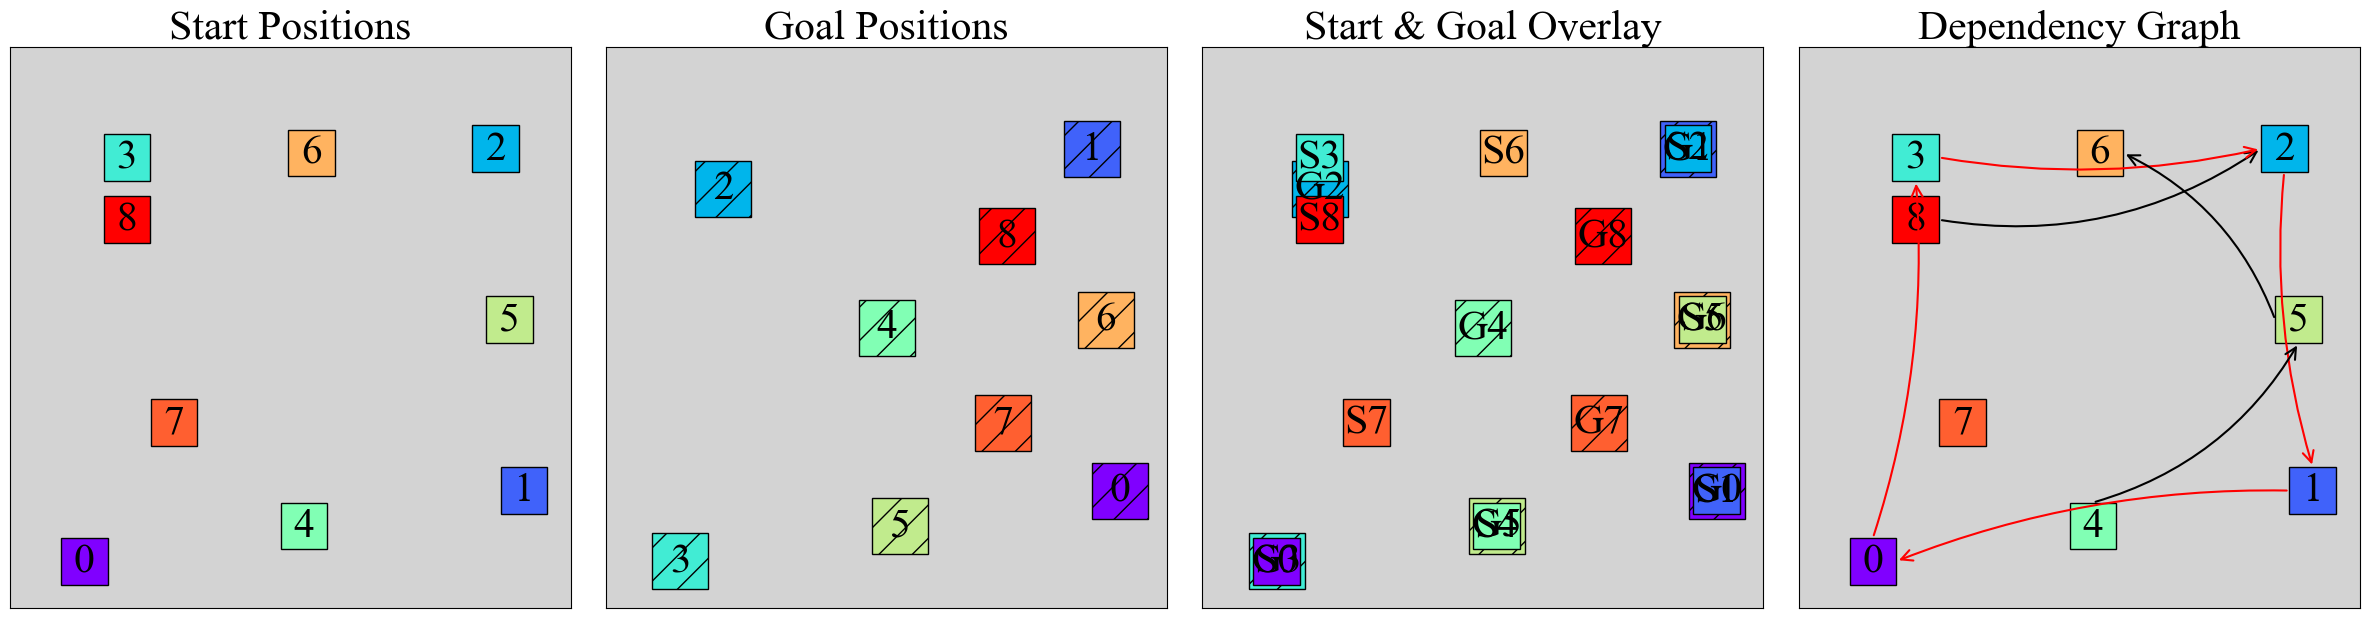
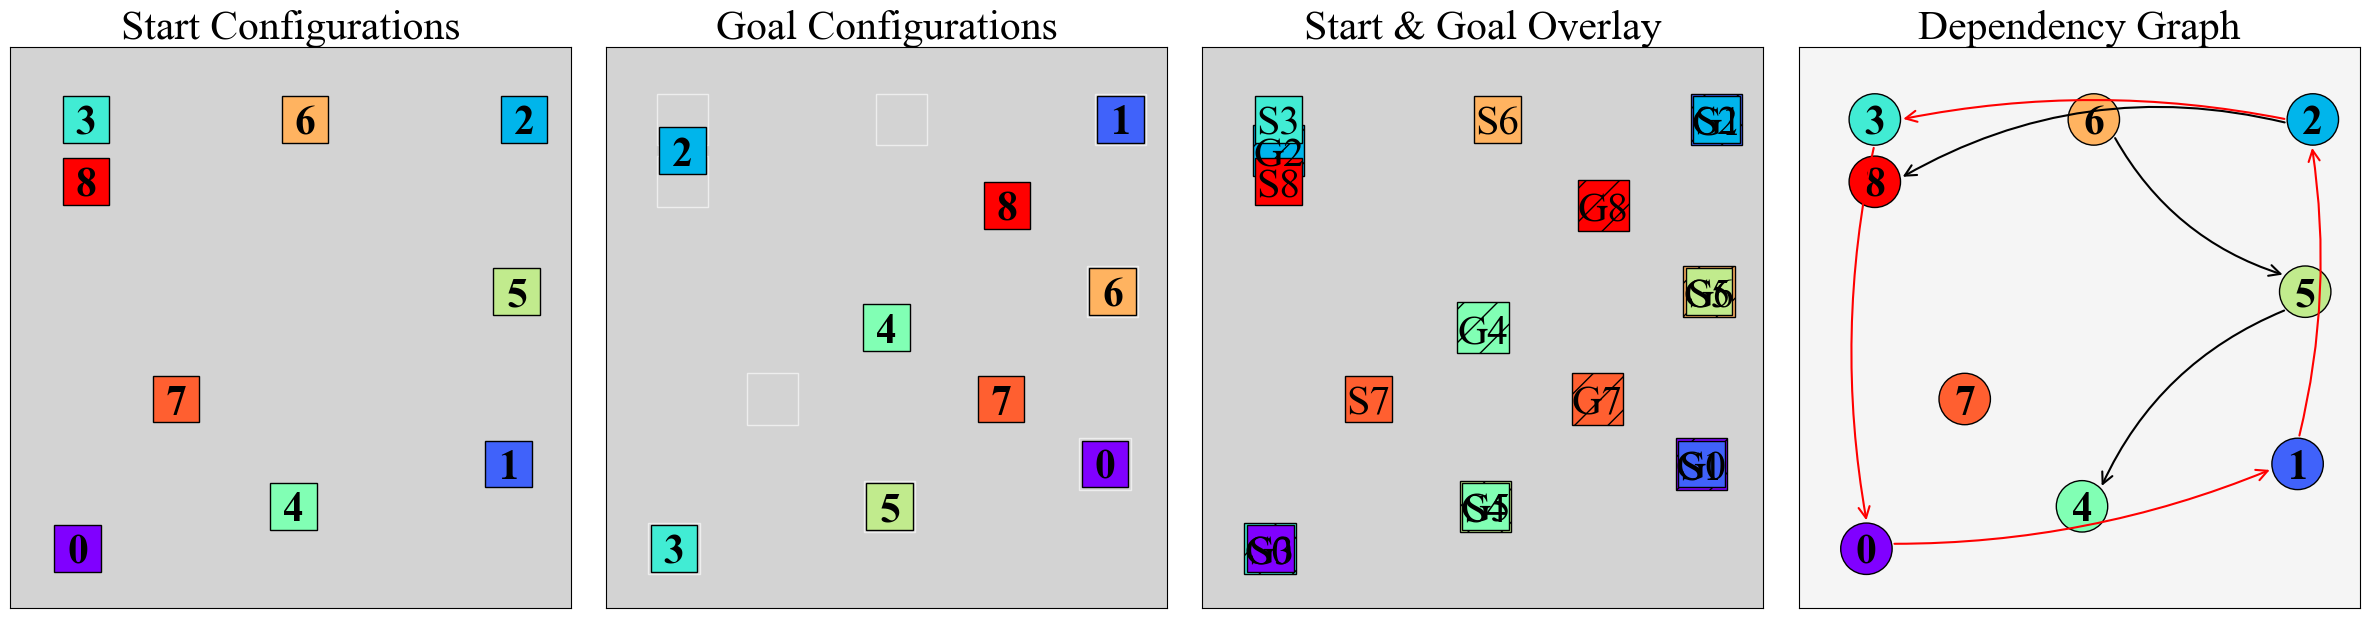
new results

diff --git a/task.py b/task.py
@@ -1251,19 +1251,19 @@ class Task:
     def draw_all(self, save_path=None, overlay=False):
         fig_num = 4 if overlay else 3
         fig, axes = plt.subplots(1, fig_num, figsize=(6 * fig_num, 6))
-        titles = ['Start Positions', 'Goal Positions', 'Start & Goal Overlay', 'Dependency Graph'] if overlay else ['Start Positions', 'Goal Positions', 'Dependency Graph']
-        goal_scale = 1.2
+        titles = ['Start Configurations', 'Goal Configurations', 'Start & Goal Overlay', 'Dependency Graph'] if overlay else ['Start Configurations', 'Goal Configurations', 'Dependency Graph']
+        goal_scale = 1.05
         scaled_size = self.object_size * goal_scale
         fig_cnt = 0
 
-        def draw_table(ax, title):
+        def draw_table(ax, title, facecolor='lightgray'):
             table_rect = patches.FancyBboxPatch(
                 (-self.map_width / 2, -self.map_length / 2),
                 self.map_width,
                 self.map_length,
                 boxstyle="round,pad=0.02",
                 edgecolor='black',
-                facecolor='lightgray',
+                facecolor=facecolor,
                 linewidth=2,
             )
             ax.add_patch(table_rect)
@@ -1274,7 +1274,7 @@ class Task:
             ax.set_xticks([])
             ax.set_yticks([])
 
-        def draw_objects(ax, positions, colors, size, hatch=None, label_prefix=""):
+        def draw_objects(ax, positions, colors, size, hatch=None, label_prefix="", label_show=True, label_fontsize=30, label_weight='normal'):
             for i, pos in positions.items():
                 color = colors[i]
                 lower_left = (pos[0] - size / 2, pos[1] - size / 2)
@@ -1285,31 +1285,61 @@ class Task:
                     hatch=hatch,
                     alpha=1.0
                 ))
-                ax.text(
-                    pos[0], pos[1], f"{label_prefix}{i}",
-                    color='black', fontsize=30,
-                    ha='center', va='center', fontname='Times New Roman'
-                )
+                if label_show:
+                    ax.text(
+                        pos[0], pos[1]-0.005, f"{label_prefix}{i}",
+                        color='black', fontsize=label_fontsize,
+                        ha='center', va='center', fontname='Times New Roman', fontweight=label_weight
+                    )
 
         for i, ax in enumerate(axes):
-            draw_table(ax, titles[i])
+            # For the dependency graph panel, use a very light gray background
+            if titles[i] == 'Dependency Graph':
+                draw_table(ax, titles[i], facecolor='#f5f5f5')
+            else:
+                draw_table(ax, titles[i])
 
         # Start
-        draw_objects(axes[fig_cnt], self.start_dict, self.colors, self.object_size)
+        def _pixels_to_data_x(ax, px):
+            # Convert pixel width to data units along X
+            (x0_disp, y0_disp) = ax.transData.transform((0, 0))
+            (x1_data, _) = ax.transData.inverted().transform((x0_disp + px, y0_disp))
+            (x0_data, _) = ax.transData.inverted().transform((x0_disp, y0_disp))
+            return x1_data - x0_data
+
+        draw_objects(axes[fig_cnt], self.start_dict, self.colors, self.object_size, label_weight="bold")
         fig_cnt += 1
 
-        # Goal
-        draw_objects(axes[fig_cnt], self.goal_dict, self.colors, scaled_size, hatch='/')
+        # Goal: remove hatches; additionally, draw start configuration beneath (no labels/colors)
+        # Draw start outlines first (beneath goals)
+        start_px_inflate = _pixels_to_data_x(axes[fig_cnt], 2)
+        start_size_main = self.object_size + start_px_inflate
+        for i, pos in self.start_dict.items():
+            lower_left = (pos[0] - start_size_main / 2, pos[1] - start_size_main / 2)
+            axes[fig_cnt].add_patch(patches.Rectangle(
+                lower_left, scaled_size, scaled_size,
+                facecolor='white', edgecolor='white', linewidth=2.0, alpha=1.0, zorder=1
+            ))
+        # Now draw goals on top, no hatches
+        draw_objects(axes[fig_cnt], self.goal_dict, self.colors, self.object_size * 0.95, hatch=None, label_prefix="", label_show=True, label_fontsize=30, label_weight='bold')
         fig_cnt += 1
 
         # Overlay
         if overlay:
             draw_objects(axes[fig_cnt], self.goal_dict, self.colors, scaled_size, hatch='/', label_prefix='G')
-            draw_objects(axes[fig_cnt], self.start_dict, self.colors, self.object_size, label_prefix='S')
+            start_px_inflate_ov = _pixels_to_data_x(axes[fig_cnt], 2)
+            start_size_ov = self.object_size + start_px_inflate_ov
+            draw_objects(axes[fig_cnt], self.start_dict, self.colors, start_size_ov, label_prefix='S')
             fig_cnt += 1
 
-        # Dependency Graph
-        draw_objects(axes[fig_cnt], self.start_dict, self.colors, self.object_size)
+        # Dependency Graph: draw circular nodes with larger bold labels
+        node_radius = self.object_size / 2 * 1.1 
+        for i, pos in self.start_dict.items():
+            color = self.colors[i]
+            circ = patches.Circle((pos[0], pos[1]), radius=node_radius, facecolor=color, edgecolor='black', alpha=1.0)
+            axes[fig_cnt].add_patch(circ)
+            axes[fig_cnt].text(pos[0], pos[1]-0.005, f"{i}", color='black', fontsize=30, fontweight='bold',
+                               ha='center', va='center', fontname='Times New Roman')
 
         # Build a mapping from edge to color based on cycles
         edge_color_map = {}
@@ -1335,26 +1365,26 @@ class Task:
             for interfering in interfering_set:
                 source = self.start_dict[interfering]
 
-                dx, dy = dest[0] - source[0], dest[1] - source[1]
-                if abs(dx) > abs(dy):
-                    src_edge = (source[0] + self.object_size/2 * (1 if dx > 0 else -1), source[1])
-                    dst_edge = (dest[0] - self.object_size/2 * (1 if dx > 0 else -1), dest[1])
-                else:
-                    src_edge = (source[0], source[1] + self.object_size/2 * (1 if dy > 0 else -1))
-                    dst_edge = (dest[0], dest[1] - self.object_size/2 * (1 if dy > 0 else -1))
+                # For circular nodes, compute edge points along the line connecting centers
+                vec = np.array([dest[0] - source[0], dest[1] - source[1]])
+                norm = np.linalg.norm(vec) if np.linalg.norm(vec) != 0 else 1.0
+                direction = vec / norm
+                src_edge = (source[0] + direction[0] * node_radius, source[1] + direction[1] * node_radius)
+                dst_edge = (dest[0] - direction[0] * node_radius, dest[1] - direction[1] * node_radius)
 
                 # Color based on cycles
                 colors = edge_color_map.get((interfering, dependent), ['black'])
                 for color in colors:
-                    axes[fig_cnt].annotate("",
-                        xy=dst_edge, xycoords='data',
-                        xytext=src_edge, textcoords='data',
+                    axes[fig_cnt].annotate(
+                        "",
+                        xy=src_edge, xycoords='data',
+                        xytext=dst_edge, textcoords='data',
                         arrowprops=dict(
                             arrowstyle="->",
                             color=color,
                             lw=1.5,
                             mutation_scale=20,
-                            connectionstyle=f"arc3,rad={rad_color_dict[color]}"  # Your curve
+                            connectionstyle=f"arc3,rad={rad_color_dict[color]}"
                         )
                     )
     
@@ -1400,4 +1430,3 @@ if __name__ == '__main__':
     print("task.cycles: ", task.dependency_graph.get_cycles())
     print("task.chains: ", task.dependency_graph.get_chains())
     print("task.independent_sets: ", task.dependency_graph.get_independent_sets())
-

diff --git a/dual_arms.py b/dual_arms.py
@@ -1449,7 +1449,23 @@ class DualArmEnv:
             
             cmd_plan = self.get_plan_single(result)
             self.visualize_plan(cmd_plan)
-            cmd = self.move_z(0.3, 900, angle)
+            cmd, _ = self.move_z(-self.pre_grasp_height, 900, angle)
+            self.visualize_plan(cmd)
+            # Allow saving a screenshot of the current PyBullet frame by pressing 's'
+            while True:
+                user_in = input("Press Enter to continue, or 's' to save screenshot: ").strip().lower()
+                if user_in == "":
+                    break
+                if user_in == "s":
+                    try:
+                        path = self._save_pybullet_screenshot()
+                        print(f"Saved screenshot to: {path}")
+                    except Exception as e:
+                        print(f"Failed to save screenshot: {e}")
+                    continue
+                else:
+                    print("Unrecognized input. Press Enter to continue, or 's' to save screenshot.")
+            cmd, _ = self.move_z(0.3, 900, angle)
             self.visualize_plan(cmd)
 
         for angle in angles:
@@ -1462,8 +1478,62 @@ class DualArmEnv:
             
             cmd_plan = self.get_plan_single(result)
             self.visualize_plan(cmd_plan)
-            cmd = self.move_z(0.3, angle, 900)
+            cmd, _ = self.move_z(0.3, angle, 900)
             self.visualize_plan(cmd)
+
+    def _save_pybullet_screenshot(self, out_dir: str = os.path.join("results", "screenshots")) -> str:
+        """Save a screenshot of the current PyBullet debug visualizer view.
+
+        Returns the file path of the saved image.
+        """
+        if getattr(self, "_pb", None) is None:
+            raise RuntimeError("PyBullet client not initialized")
+        if self.headless:
+            raise RuntimeError("Screenshot not available in headless mode")
+
+        os.makedirs(out_dir, exist_ok=True)
+
+        cam_info = self._pb.getDebugVisualizerCamera()
+        # cam_info format: (width, height, viewMatrix, projectionMatrix, cameraUp, cameraForward,
+        #                   horizontal, vertical, yaw, pitch, dist, target)
+        width, height = int(cam_info[0]), int(cam_info[1])
+        view_matrix, proj_matrix = cam_info[2], cam_info[3]
+
+        img = self._pb.getCameraImage(
+            width,
+            height,
+            viewMatrix=view_matrix,
+            projectionMatrix=proj_matrix,
+            renderer=pybullet.ER_BULLET_HARDWARE_OPENGL,
+        )
+        # img: (w, h, rgba, depth, seg)
+        rgba = img[2]
+
+        # Convert to numpy array (H, W, 4)
+        if hasattr(rgba, "shape") and tuple(rgba.shape) == (height, width, 4):
+            arr = rgba
+        else:
+            arr = np.reshape(rgba, (height, width, 4))
+        rgb = arr[:, :, :3]
+
+        timestamp = time.strftime("%Y%m%d_%H%M%S")
+        outfile = os.path.join(out_dir, f"pybullet_frame_{timestamp}.png")
+
+        # Try saving with PIL, fallback to matplotlib, else save as NPY
+        try:
+            from PIL import Image  # type: ignore
+            Image.fromarray(rgb).save(outfile)
+            return outfile
+        except Exception:
+            try:
+                import matplotlib.pyplot as plt  # type: ignore
+                plt.imsave(outfile, rgb)
+                return outfile
+            except Exception:
+                # Final fallback: save raw data for later conversion
+                npy_out = os.path.splitext(outfile)[0] + ".npy"
+                np.save(npy_out, rgb)
+                return npy_out
     
     def get_current_cube_pose(self):
         if self.headless:
@@ -1732,7 +1802,6 @@ if __name__ == '__main__':
     dual_arm = DualArmEnv(task,
                           False,
                           batch_size = 3,
-                          constrain_grasp_approach=False,
                           )
     dual_arm.reset()
     if test_grasp_angles:

diff --git a/visualize_execution_time.py b/visualize_execution_time.py
@@ -13,11 +13,11 @@ ignore_baseline_for_double_cycled = True
 testcase_types_order = ["mixed", "cycled", "double_cycled", "random"]
 methods = ["ours", "baseline", "baseline_with_our_tp", "ours_with_baseline_tp", "our_tp_with_curobo", "baseline_tp_with_curobo"]
 method_display_names = {
-    "ours": "Ours",
+    "ours": "SDAR",
     "baseline": "Baseline",
-    "baseline_with_our_tp": "Baseline+\nOur TP",
-    "ours_with_baseline_tp": "Ours+\nBaseline TP",
-    "our_tp_with_curobo": "Our TP+\nCurobo",
+    "baseline_with_our_tp": "SDAR-T+\nBaseline MP",
+    "ours_with_baseline_tp": "Baseline TP+\nSDAR-M",
+    "our_tp_with_curobo": "SDAR-T+\nCurobo",
     "baseline_tp_with_curobo": "Baseline TP+\nCurobo"
 }
 
@@ -134,11 +134,11 @@ ours_times = [case["ours"] for case in sorted_cases]
 fig, ax = plt.subplots(figsize=(28, 6))
 ax.margins(x=0)
 ax.bar(baseline_x, baseline_times, width, label="Baseline", color=colors["baseline"])
-ax.bar(tp_x, tp_times, width, label="Baseline+Our TP", color=colors["baseline_with_our_tp"])
-ax.bar(ours_tp_x, ours_tp_times, width, label="Ours+Baseline TP", color=colors["ours_with_baseline_tp"])
-ax.bar(our_tp_with_curobo_x, our_tp_with_curobo_times, width, label="Our TP+Curobo", color=colors["our_tp_with_curobo"])
+ax.bar(tp_x, tp_times, width, label="SDAR-T+Baseline", color=colors["baseline_with_our_tp"])
+ax.bar(ours_tp_x, ours_tp_times, width, label="Baseline TP+SDAR-M", color=colors["ours_with_baseline_tp"])
+ax.bar(our_tp_with_curobo_x, our_tp_with_curobo_times, width, label="SDAR-T+Curobo", color=colors["our_tp_with_curobo"])
 ax.bar(baseline_tp_with_curobo_x, baseline_tp_with_curobo_times, width, label="Baseline TP+Curobo", color=colors["baseline_tp_with_curobo"])
-ax.bar(ours_x, ours_times, width, label="Ours", color=colors["ours"])
+ax.bar(ours_x, ours_times, width, label="SDAR", color=colors["ours"])
 
 
 # ax.set_xlabel("Test Cases", fontname='Times New Roman', fontsize=20)
@@ -171,7 +171,7 @@ for case in sorted_cases:
 success_rates = {method: success_counts[method] / total_cases for method in methods}
 
 # Plot success rate
-fig, ax = plt.subplots(figsize=(10, 5))
+fig, ax = plt.subplots(figsize=(10, 4))
 bar_x = np.arange(len(methods))
 bar_heights = [success_rates[method] for method in methods]
 bar_colors = [colors[method] for method in methods]
@@ -179,7 +179,7 @@ bar_colors = [colors[method] for method in methods]
 ax.bar(bar_x, bar_heights, color=bar_colors, tick_label=[method_display_names[m] for m in methods])
 ax.set_ylim(0, 1.05)
 ax.set_ylabel("Success Rate", fontname='Times New Roman', fontsize=20)
-ax.xaxis.set_tick_params(labelsize=20)
+ax.xaxis.set_tick_params(labelsize=17)
 ax.yaxis.set_tick_params(labelsize=20)
 
 # Annotate bar values

diff --git a/visualize_num_actions.py b/visualize_num_actions.py
@@ -133,13 +133,19 @@ def plot_boxplot(ratios_by_type):
 	for mt in MAP_TYPE_PREFIXES + ["other"]:
 		if mt in ratios_by_type and ratios_by_type[mt]:
 			labels.append(label_to_display.get(mt, mt))
-			data.append(ratios_by_type[mt])
+			# remove the data that is less than 1.0
+			new_ratios_by_type = []
+			for v in ratios_by_type[mt]:
+				if v >= 1.0:
+					new_ratios_by_type.append(v)
+			# data.append(ratios_by_type[mt])
+			data.append(new_ratios_by_type)
 
 	if not data:
 		print("No ratio data lists to plot.")
 		return
 
-	plt.figure(figsize=(10, 5))
+	plt.figure(figsize=(10, 4))
 	main_colors = {
 		'Mixed': 'red',
 		'Single Cycle': 'green',
@@ -156,7 +162,7 @@ def plot_boxplot(ratios_by_type):
 		base_color = main_colors.get(label, 'gray')
 		patch.set_facecolor(lighten(base_color, 0.5))
 	plt.axhline(1.0, color='red', linestyle='--', linewidth=1)
-	plt.ylabel("Num Actions Ratio (baseline / ours)", fontname='Times New Roman', fontsize=20)
+	plt.ylabel("Num Actions Ratio", fontname='Times New Roman', fontsize=20)
 	# Remove title
 	# plt.title("Baseline vs Ours: Num Actions Ratio by Map Type", fontname='Times New Roman', fontsize=20)
 	plt.xticks(fontsize=20)
